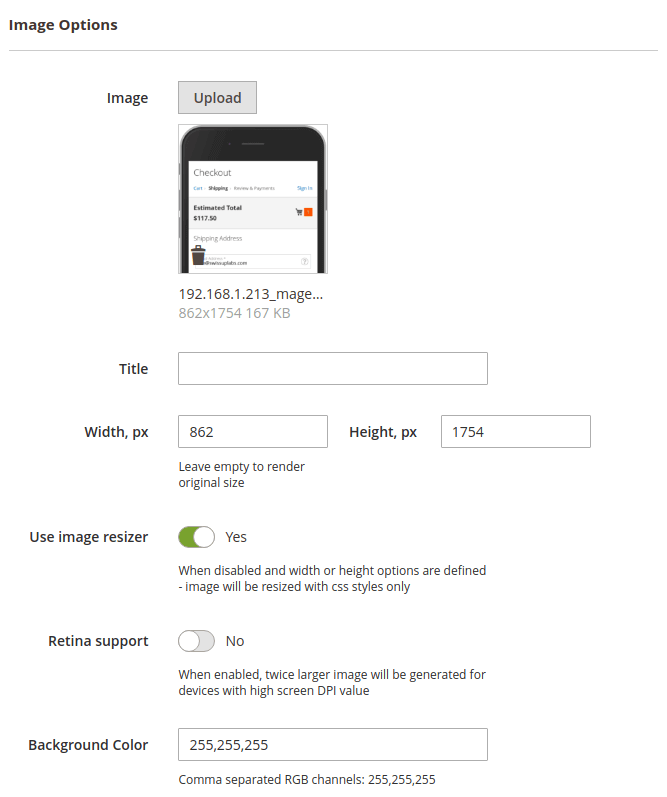
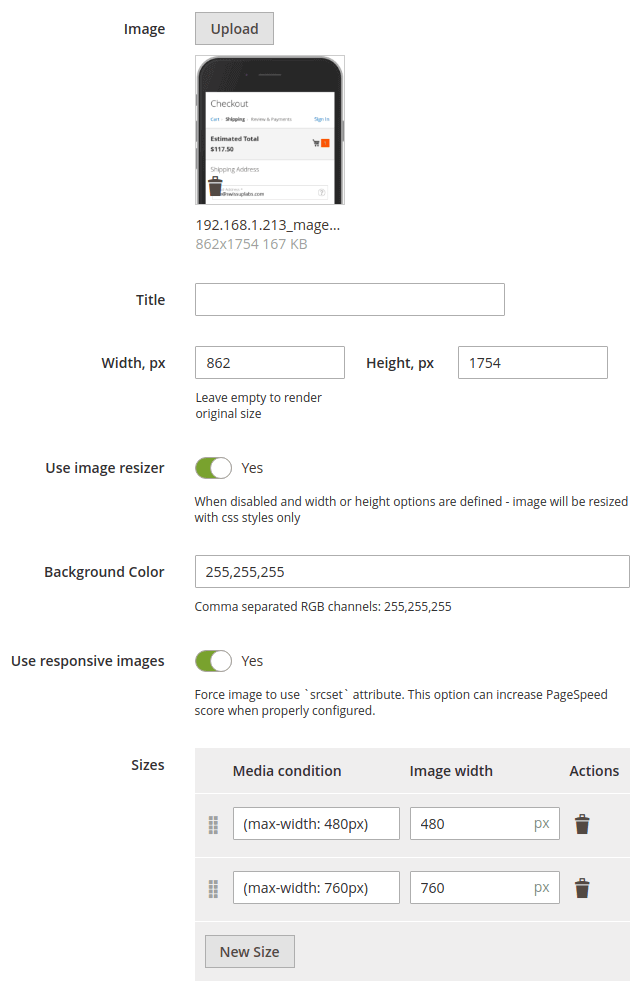
Easybanner: 1.6.0

diff --git a/m2/extensions/easybanners/interfaces.md b/m2/extensions/easybanners/interfaces.md
@@ -97,8 +97,9 @@ Title                   | Image title
 Width                   | Width (px), optional
 Height                  | Height (px), optional
 Use Image Resizer       | Ability to use backend resizer instead of css styles. Width and Height are required to make it visible
-Retina Support          | When enabled, a sharp, double sized image will be served for retina displays. Make sure ypu upload a large image to resize.
 Background Color        | Will be used when you want to resize image without keeping original aspect ratio
+Use Responsive Images   | Ability to set different banner size per screen size. This feature allows to improve pagespeed score when properly configured.
+Sizes                   | Media rules use use when generating responsive images.
 
 ###### Html Content Region
 

diff --git a/m2/extensions/easybanners/changelog.md b/m2/extensions/easybanners/changelog.md
@@ -8,6 +8,16 @@ category: Easy Banners
 
 # Changelog
 
+### Version 1.6.0
+
+> Nov 26, 2020
+
+ -  Added ability to set [different banner size per screen size](/m2/extensions/easybanners/interfaces/#image-options-region).
+    This feature allows to improve pagespeed score when properly configured.
+ -  Fixed black background when background setting is not correct. White background
+    will be used in such case.
+ -  Fixed php error on banner save after image was uploaded in Magento 2.4.1
+
 ### Version 1.5.10
 
 > Oct 13, 2020
